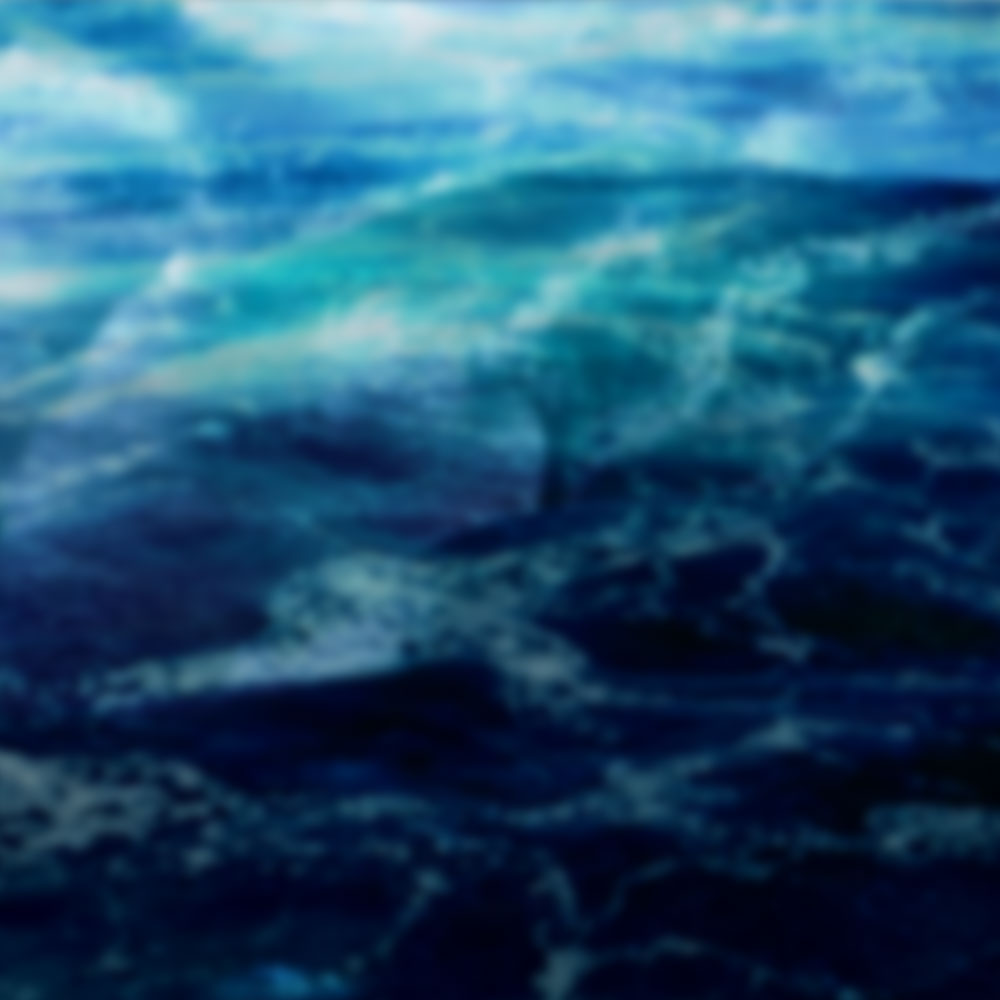
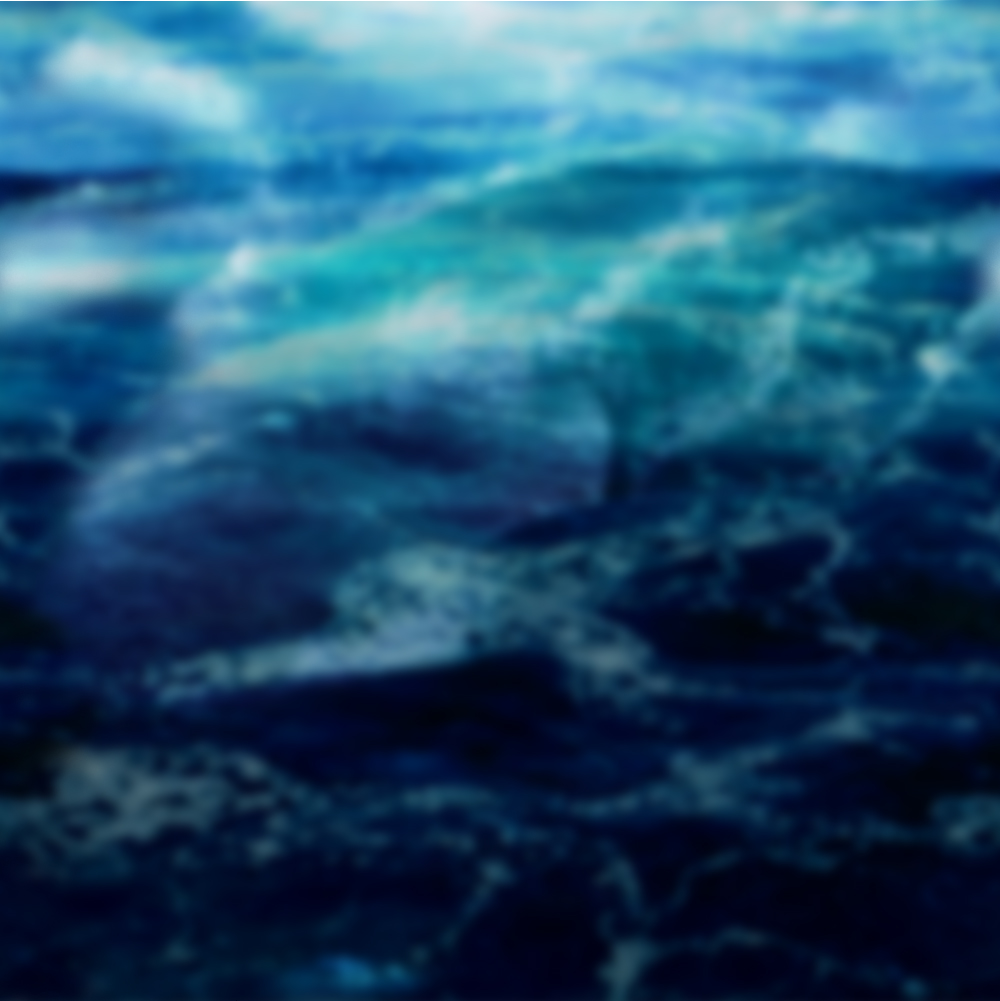
flow little river

diff --git a/res/style.css b/res/style.css
@@ -58,18 +58,23 @@
     overflow: hidden;
 }
 #logo_mask {
-    background: url('img/maske.png') center center repeat transparent;
+    background: url('img/maske.png') center center no-repeat transparent;
 }
 #logo_bg {
+    background-position: 0px 0px;
     background: white url('img/wasser.jpg');
-    -webkit-animation:spin 120s linear infinite;
-    -moz-animation:spin 120s linear infinite;
-    animation:spin 120s linear infinite;
+    -webkit-animation: move 60s linear infinite, spin 240s linear infinite;
+    -moz-animation: move 60s linear infinite, spin 120s linear infinite;
+    animation: move 60s linear infinite, spin 120s linear infinite;
 }
 
 @-moz-keyframes spin { 100% { -moz-transform: rotate(360deg); } }
 @-webkit-keyframes spin { 100% { -webkit-transform: rotate(360deg); } }
 @keyframes spin { 100% { -webkit-transform: rotate(360deg); transform:rotate(360deg); } }
+
+@-moz-keyframes move { 100% { background-position: 1500px 0px; } }
+@-webkit-keyframes move { 100% { background-position: 1500px 0px; } }
+@keyframes move { 100% { background-position: 1500px 0px; } }
 
 
 @media
